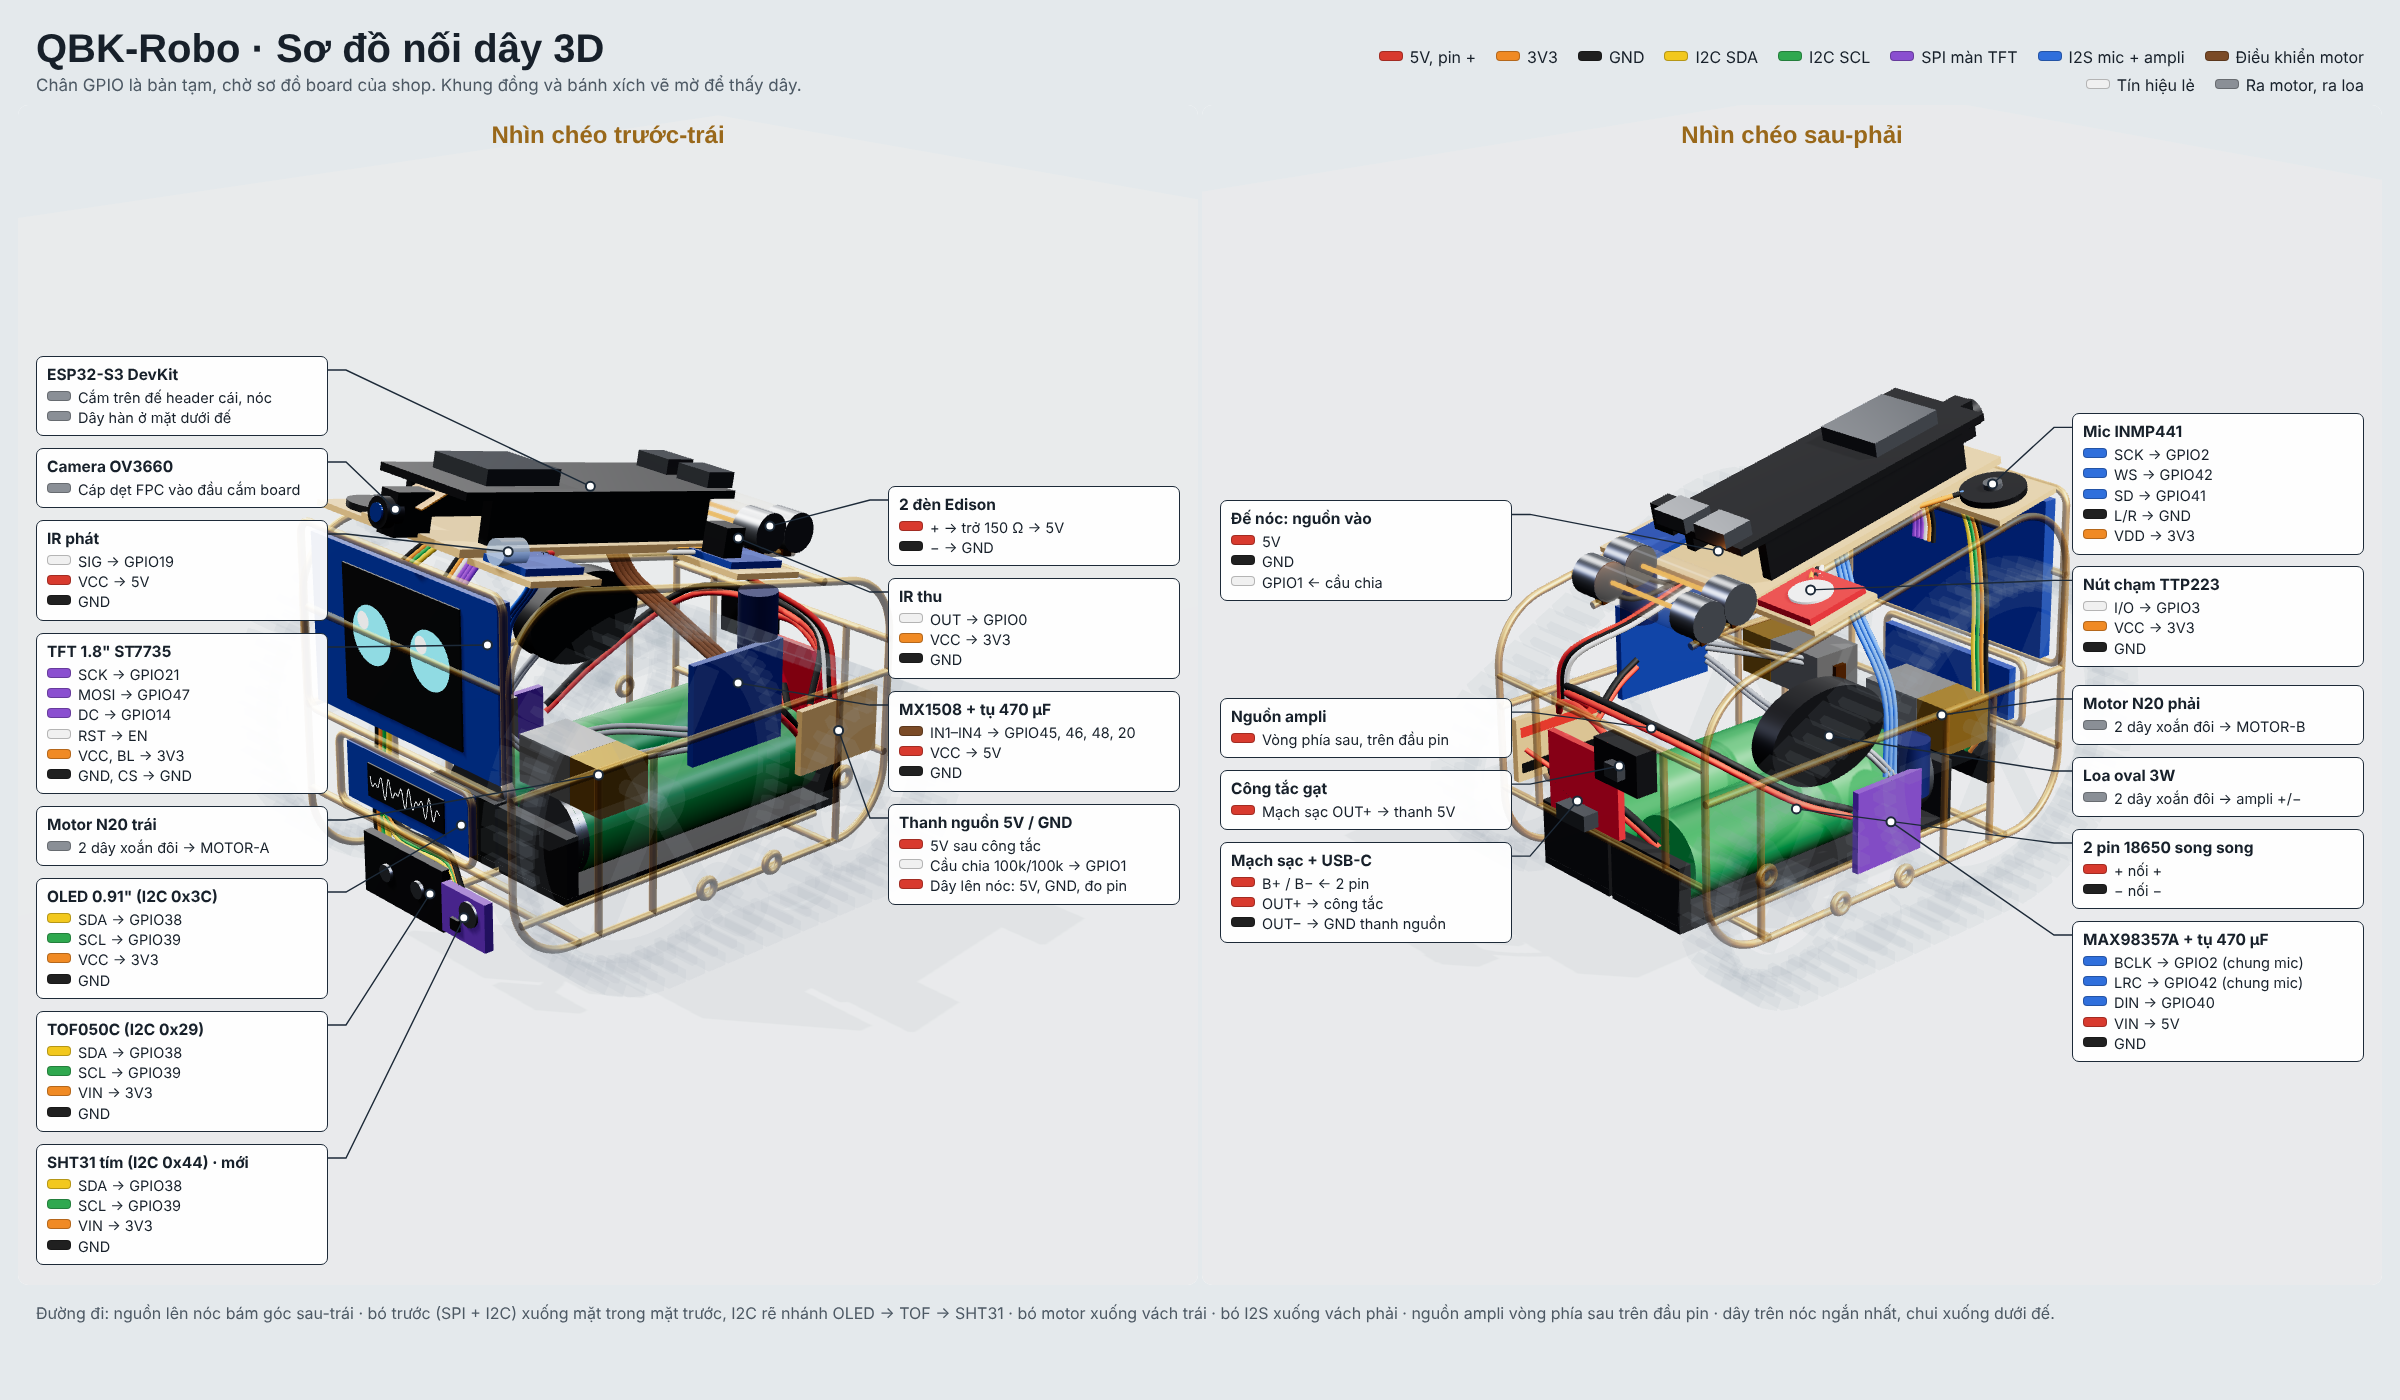
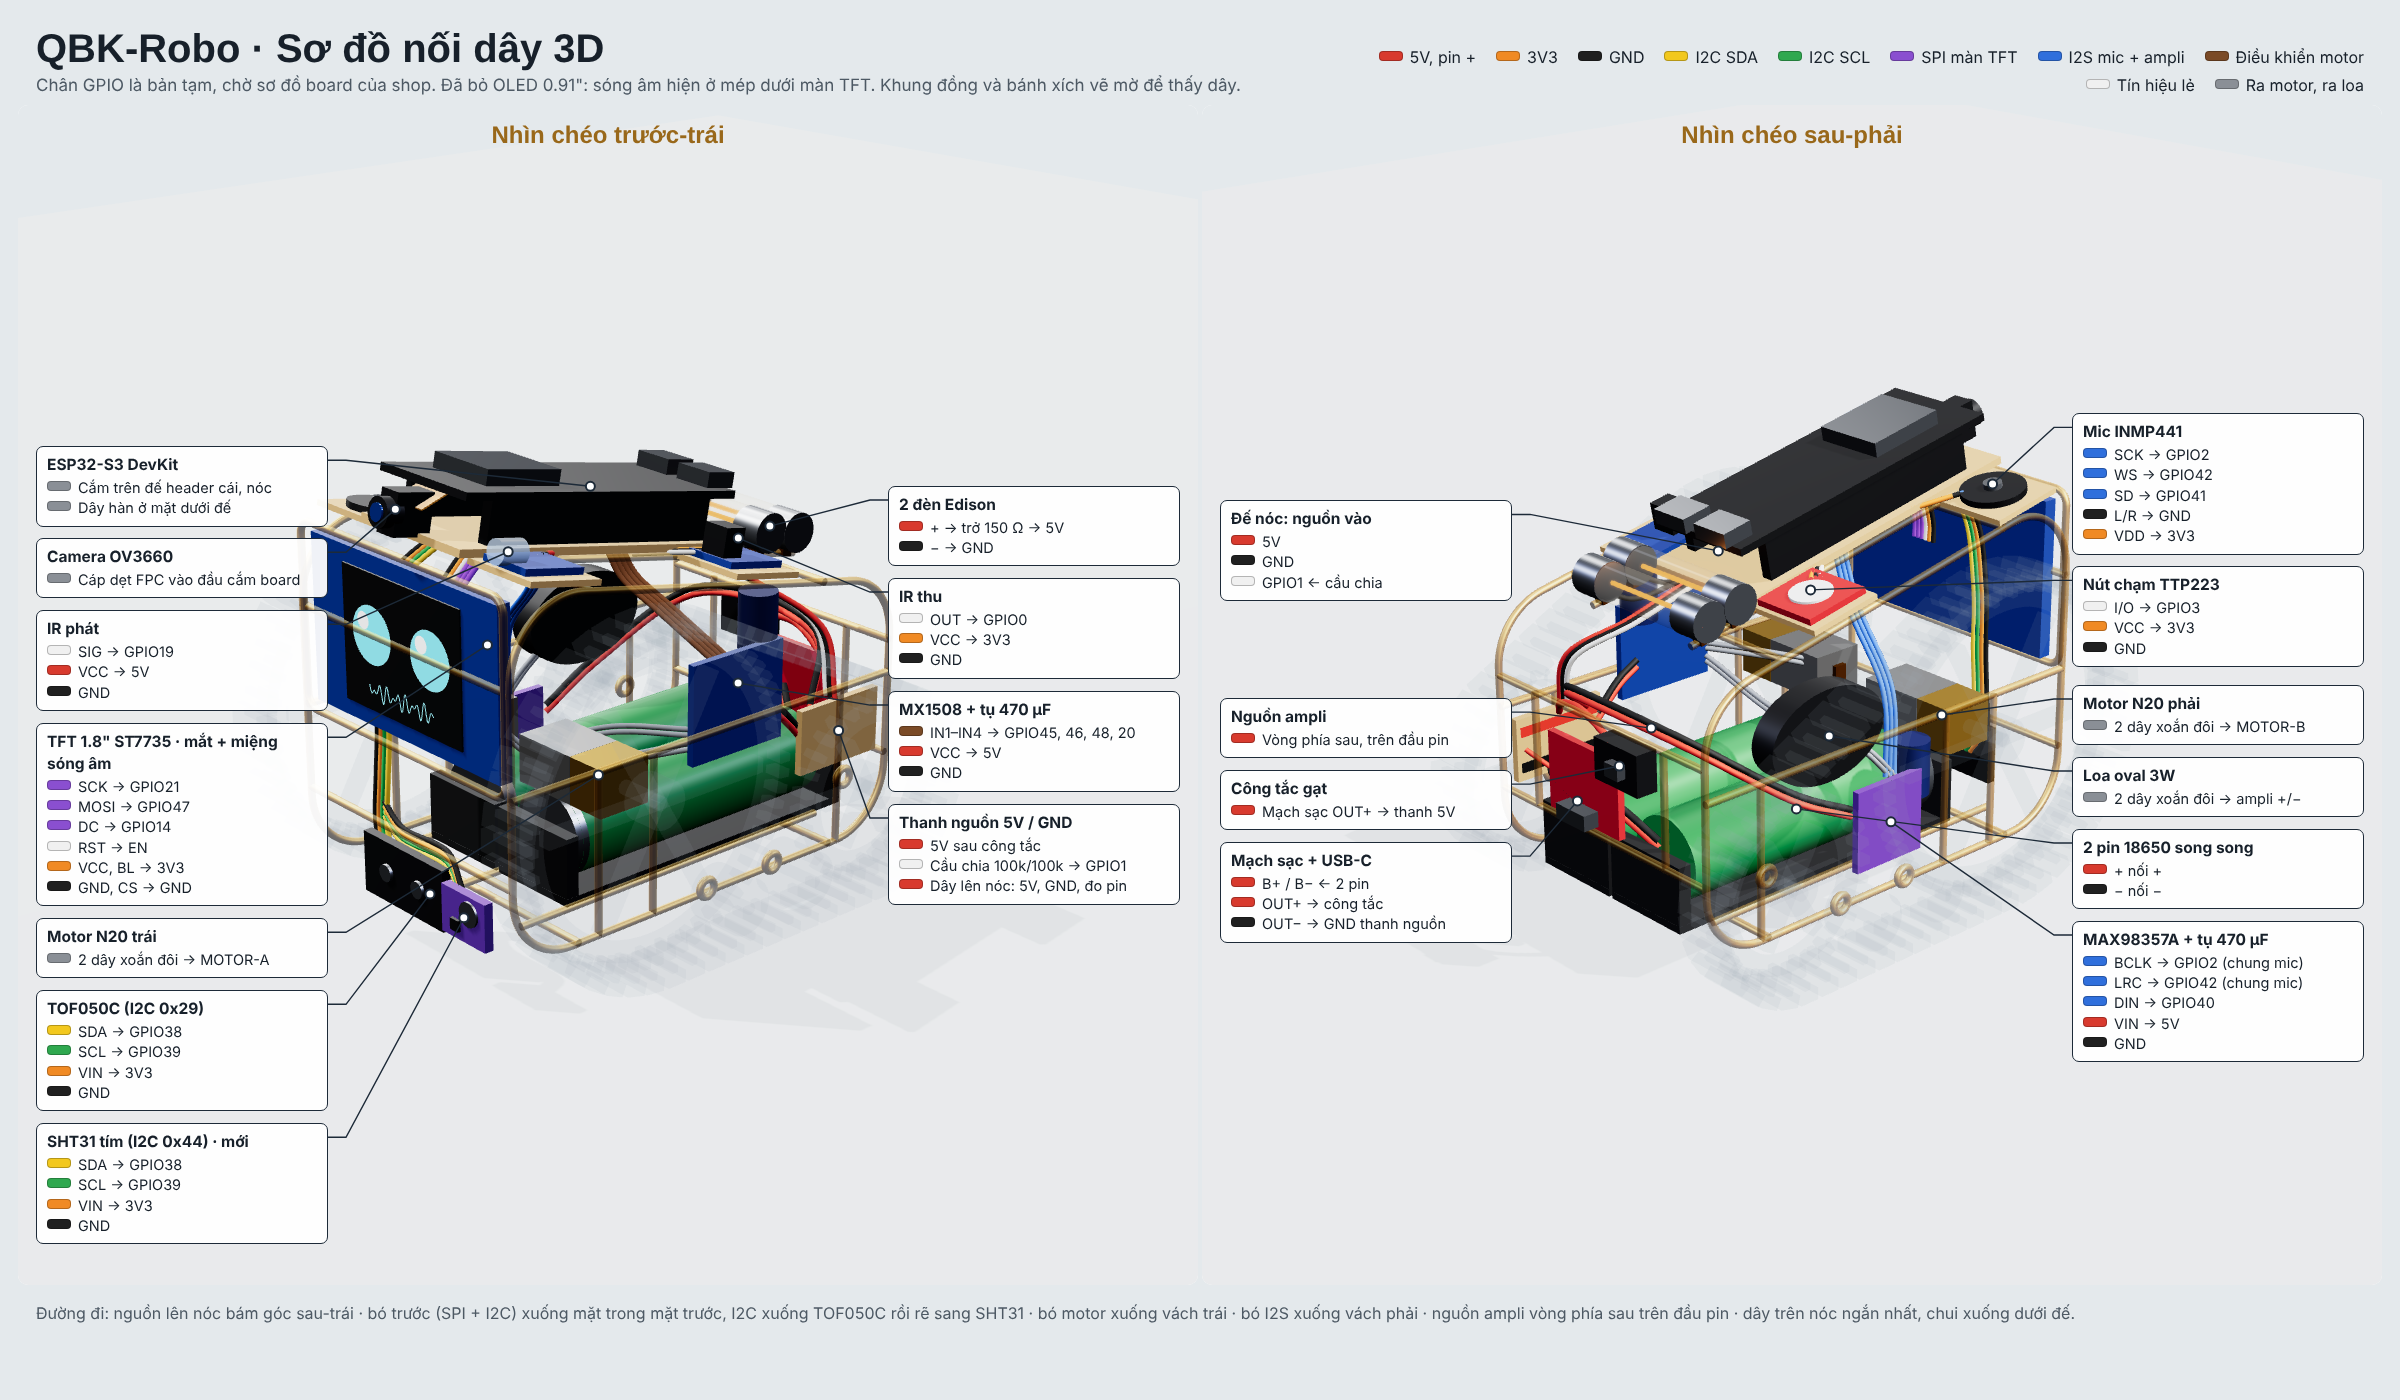
Sơ đồ nối dây 3D: bỏ OLED 0.91, sóng âm chuyển xuống màn TFT
Claude-Session: https://claude.ai/code/session_01LP61bmVpytbB66juJGd8Vg

diff --git a/design/so-do-noi-day-3d.html b/design/so-do-noi-day-3d.html
@@ -17,12 +17,12 @@ svg{position:absolute;inset:0;z-index:1}
 .lb.L{left:18px} .lb.R{right:18px}
 footer{padding:0 36px 24px;font-size:16px;color:#4d5964}
 </style></head><body>
-<header><div><h1>QBK-Robo · Sơ đồ nối dây 3D</h1><p>Chân GPIO là bản tạm, chờ sơ đồ board của shop. Khung đồng và bánh xích vẽ mờ để thấy dây.</p></div><div class="legend"><span><i style="background:#d83a2e"></i>5V, pin +</span><span><i style="background:#f08a24"></i>3V3</span><span><i style="background:#202020"></i>GND</span><span><i style="background:#f2c81e"></i>I2C SDA</span><span><i style="background:#2fa84f"></i>I2C SCL</span><span><i style="background:#8a4fd0"></i>SPI màn TFT</span><span><i style="background:#2f6fdc"></i>I2S mic + ampli</span><span><i style="background:#7a4a26"></i>Điều khiển motor</span><span><i style="background:#f0f0f0"></i>Tín hiệu lẻ</span><span><i style="background:#8a8f96"></i>Ra motor, ra loa</span></div></header>
+<header><div><h1>QBK-Robo · Sơ đồ nối dây 3D</h1><p>Chân GPIO là bản tạm, chờ sơ đồ board của shop. Đã bỏ OLED 0.91": sóng âm hiện ở mép dưới màn TFT. Khung đồng và bánh xích vẽ mờ để thấy dây.</p></div><div class="legend"><span><i style="background:#d83a2e"></i>5V, pin +</span><span><i style="background:#f08a24"></i>3V3</span><span><i style="background:#202020"></i>GND</span><span><i style="background:#f2c81e"></i>I2C SDA</span><span><i style="background:#2fa84f"></i>I2C SCL</span><span><i style="background:#8a4fd0"></i>SPI màn TFT</span><span><i style="background:#2f6fdc"></i>I2S mic + ampli</span><span><i style="background:#7a4a26"></i>Điều khiển motor</span><span><i style="background:#f0f0f0"></i>Tín hiệu lẻ</span><span><i style="background:#8a8f96"></i>Ra motor, ra loa</span></div></header>
 <div class="panels">
 <div class="panel" id="v1"><h2>Nhìn chéo trước-trái</h2><div class="r"></div><svg width="1180" height="1180"></svg><div class="labels"></div></div>
 <div class="panel" id="v2"><h2>Nhìn chéo sau-phải</h2><div class="r"></div><svg width="1180" height="1180"></svg><div class="labels"></div></div>
 </div>
-<footer>Đường đi: nguồn lên nóc bám góc sau-trái · bó trước (SPI + I2C) xuống mặt trong mặt trước, I2C rẽ nhánh OLED → TOF → SHT31 · bó motor xuống vách trái · bó I2S xuống vách phải · nguồn ampli vòng phía sau trên đầu pin · dây trên nóc ngắn nhất, chui xuống dưới đế.</footer>
+<footer>Đường đi: nguồn lên nóc bám góc sau-trái · bó trước (SPI + I2C) xuống mặt trong mặt trước, I2C xuống TOF050C rồi rẽ sang SHT31 · bó motor xuống vách trái · bó I2S xuống vách phải · nguồn ampli vòng phía sau trên đầu pin · dây trên nóc ngắn nhất, chui xuống dưới đế.</footer>
 <div id="stage" hidden></div>
 <script type="importmap">{"imports":{"three":"https://cdn.jsdelivr.net/npm/three@0.160.0/build/three.module.js","three/addons/":"https://cdn.jsdelivr.net/npm/three@0.160.0/examples/jsm/"}}</script>
 <script type="module">
@@ -105,7 +105,7 @@ begin('midRails'); for(const z of [HZ,-HZ]) line([-HX,42,z],[HX,42,z]);
 begin('tray'); for(const z of [-22,0,22]) line([-40,Y0+1.6,z],[40,Y0+1.6,z]);
 begin('posts'); for(const z of [HZ,-HZ]){ for(const x of [15,29,-36]) line([x,Y0,z],[x,42,z]); }
 begin('bezels'); tube(rrect(62,39,3).map(([z,y])=>[HX+0.4,y+61.5,z]), true);
-  tube(rrect(42,15,2.5).map(([z,y])=>[HX+0.4,y+32.3,z]), true);
+
 begin('rearPosts'); for(const z of [20,-20]) line([-HX,24,z],[-HX,49,z]);
 begin('eyes'); for(const s of [1,-1]){ for(const [x,y] of [[-36,22.8],[-16,9.8],[2,9.8]]){ const t=new THREE.Mesh(new THREE.TorusGeometry(1.9,0.8,8,20),mat.brass); t.position.set(x,y,s*(HZ+1.6)); add(t); } }
 
@@ -123,13 +123,12 @@ begin('mx'); box(24,21,1.6,mat.pcbBlue,-8,46,-30.4); cyl(4,12,mat.cap,-17,60,-27
 begin('amp'); box(18,18,1.6,mat.pcbPurple,0,22,30.4); cyl(4,12,mat.cap,10,30,27);
 begin('speaker'); { const o=cyl(10,6,mat.pcbBlack,-17,46,28,'z',40); o.scale.x=1.5; }
 begin('tof'); box(2,13,25,mat.pcbBlack,50.4,15,0); for(const z of [-5,5]) cyl(1.8,1,mat.silver,51.6,15,z,'x');
-begin('oled'); box(2,12,38,mat.pcbBlue,49,32.3,0); box(0.5,7,24,mat.pcbBlack,50.1,32.3,0);
-  { const wp=[]; for(let i=0;i<=60;i++){ const z=-11+22*i/60; wp.push(new THREE.Vector3(50.45, 32.3+Math.sin(i*0.9)*Math.sin(i*0.17)*2.6, z)); }
-    cur.add(new THREE.Line(new THREE.BufferGeometry().setFromPoints(wp), new THREE.LineBasicMaterial({color:0xe8f4ff}))); }
 begin('tft'); box(3,35,57,mat.pcbBlue,48.3,61.5,0); box(0.6,28,36,mat.pcbBlack,49.9,61.5,0);
   for(const z of [-9,9]){ const e=new THREE.Mesh(new THREE.CircleGeometry(6,40),basic(0x38e1ff)); e.position.set(50.3,63,z); e.rotation.y=Math.PI/2; cur.add(e);
     const h=new THREE.Mesh(new THREE.CircleGeometry(1.8,20),basic(0xffffff)); h.position.set(50.4,65.5,z+2.5); h.rotation.y=Math.PI/2; cur.add(h); }
 
+{ const wp=[]; for(let i=0;i<=60;i++){ const z=-10+20*i/60; wp.push(new THREE.Vector3(50.45, 52+Math.sin(i*0.9)*Math.sin(i*0.17)*2.2, z)); }
+  const ln=new THREE.Line(new THREE.BufferGeometry().setFromPoints(wp), new THREE.LineBasicMaterial({color:0x38e1ff})); parts.tft.add(ln); }
 /* ---------- NÓC (toạ độ theo mặt dốc) ---------- */
 begin('perf', roofG); box(72,1.6,30,mat.perf,13,3.2,0); for(const z of [11.5,-11.5]) box(56,8.5,2.5,mat.pcbBlack,13,8.25,z);
 begin('devkit', roofG); box(69,1.6,26,mat.pcbBlack,13,13.3,0); box(18,3.2,16,mat.silver,30,15.7,0); for(const z of [6,-6]) box(7,3.2,9,mat.silver,-19.5,15.7,z);
@@ -237,8 +236,7 @@ const VIEWS = [
     {a:roofW(44.5,5.5,-23), t:'IR phát', r:[['white','SIG → GPIO19'],['red','VCC → 5V'],['black','GND']]},
     {a:roofW(-32,7,-14), t:'2 đèn Edison', r:[['red','+ → trở 150 Ω → 5V'],['black','− → GND']]},
     {a:roofW(-14,7,-23), t:'IR thu', r:[['white','OUT → GPIO0'],['orange','VCC → 3V3'],['black','GND']]},
-    {a:[48.5,70,-24], t:'TFT 1.8" ST7735', r:[['purple','SCK → GPIO21'],['purple','MOSI → GPIO47'],['purple','DC → GPIO14'],['white','RST → EN'],['orange','VCC, BL → 3V3'],['black','GND, CS → GND']]},
-    {a:[50,32.3,-17], t:'OLED 0.91" (I2C 0x3C)', r:[['yellow','SDA → GPIO38'],['green','SCL → GPIO39'],['orange','VCC → 3V3'],['black','GND']]},
+    {a:[48.5,70,-24], t:'TFT 1.8" ST7735 · mắt + miệng sóng âm', r:[['purple','SCK → GPIO21'],['purple','MOSI → GPIO47'],['purple','DC → GPIO14'],['white','RST → EN'],['orange','VCC, BL → 3V3'],['black','GND, CS → GND']]},
     {a:[51,15,-8], t:'TOF050C (I2C 0x29)', r:[['yellow','SDA → GPIO38'],['green','SCL → GPIO39'],['orange','VIN → 3V3'],['black','GND']]},
     {a:[53,15.5,-21], t:'SHT31 tím (I2C 0x44) · mới', r:[['yellow','SDA → GPIO38'],['green','SCL → GPIO39'],['orange','VIN → 3V3'],['black','GND']]},
     {a:[22,36.8,-24], t:'Motor N20 trái', r:[['grey','2 dây xoắn đôi → MOTOR-A']]},
